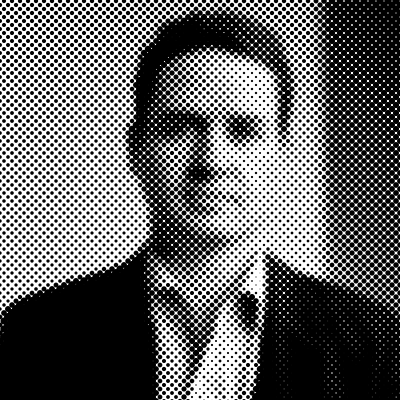
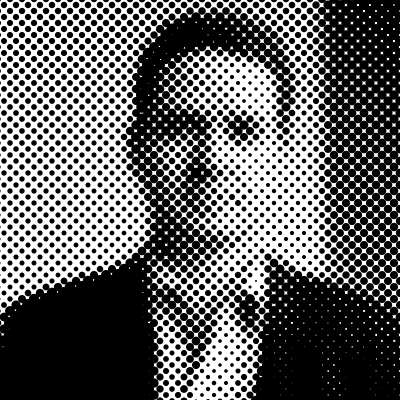
many changes

diff --git a/src/components/indexPage.js b/src/components/indexPage.js
@@ -5,7 +5,6 @@ import { useStaticQuery, graphql } from "gatsby"
 import Img from "gatsby-image"
 
 import Layout from "./layout"
-// import Image from "./image"
 import SEO from "./seo"
 
 import data from "../data"
@@ -503,6 +502,7 @@ const ScheduleSection = ({ t }) => {
           css={css`
             display: flex;
             justify-content: space-around;
+            margin-bottom: 35px;
           `}
         >
           <ScheduleDayTitle
@@ -702,35 +702,52 @@ const ExhibitionItem = ({
   <section
     css={css`
       color: #fff;
-      margin: 60px 0 95px;
-      display: flex;
-      align-items: center;
-      justify-content: space-between;
-      flex-direction: ${imgLeft ? "row" : "row-reverse"};
+      margin: 39px 0 0 0;
+
+      @media (min-width: ${bp}) {
+        margin: 60px 0 95px;
+
+        display: flex;
+        align-items: center;
+        justify-content: space-between;
+        flex-direction: ${imgLeft ? "row" : "row-reverse"};
+      }
     `}
   >
     <div
       css={css`
-        width: calc(50% - 15px);
+        width: 70%;
+        @media (min-width: ${bp}) {
+          width: calc(50% - 15px);
+        }
       `}
     >
       {imgRender()}
     </div>
     <div
       css={css`
-        width: calc(50% - 15px);
-        border: 1px solid #fff;
-        padding: 70px 45px;
+        width: 70%;
+        padding: 14px 0 0 0;
+        line-height: 1.2;
+        @media (min-width: ${bp}) {
+          width: calc(50% - 15px);
+
+          border: 1px solid #fff;
+          padding: 70px 45px;
+        }
       `}
     >
       {author && (
         <p
           css={css`
-            font-size: 24px;
-            line-height: 29px;
             color: #fcfb63;
             font-weight: 500;
             margin-bottom: 9px;
+
+            font-size: 18px;
+            @media (min-width: ${bp}) {
+              font-size: 24px;
+            }
           `}
         >
           {author}
@@ -739,60 +756,75 @@ const ExhibitionItem = ({
 
       <h3
         css={css`
-          font-size: 72px;
-          line-height: 86px;
           font-weight: 700;
           margin-bottom: 9px;
+
+          font-size: 24px;
+          @media (min-width: ${bp}) {
+            font-size: 72px;
+          }
         `}
       >
         {title}
       </h3>
       <p
         css={css`
-          font-size: 24px;
-          line-height: 29px;
           font-weight: 500;
-          margin-bottom: 66px;
+          margin-bottom: 24px;
+
+          font-size: 18px;
+          @media (min-width: ${bp}) {
+            font-size: 24px;
+            margin-bottom: 66px;
+          }
         `}
       >
         {desc}
       </p>
       <p
         css={css`
-          font-size: 24px;
-          line-height: 29px;
           font-weight: 300;
           margin-bottom: 9px;
+
+          font-size: 14px;
+          @media (min-width: ${bp}) {
+            font-size: 24px;
+          }
         `}
       >
         Location
       </p>
       <p
         css={css`
-          font-size: 24px;
-          line-height: 29px;
           font-weight: 600;
           margin-bottom: 55px;
+
+          font-size: 18px;
+          @media (min-width: ${bp}) {
+            font-size: 24px;
+          }
         `}
         dangerouslySetInnerHTML={{ __html: address }}
       />
-      <a
-        href={fbLink}
-        css={css`
-          font-weight: 700;
-          font-size: 24px;
-          line-height: 30px;
-          text-decoration-line: underline;
-          text-transform: uppercase;
+      {fbLink && (
+        <a
+          href={fbLink}
+          css={css`
+            font-weight: 700;
+            font-size: 24px;
+            line-height: 30px;
+            text-decoration-line: underline;
+            text-transform: uppercase;
 
-          color: #fcfb63;
+            color: #fcfb63;
 
-          display: inline-block;
-          margin-bottom: 76px;
-        `}
-      >
-        facebook
-      </a>
+            display: inline-block;
+            margin-bottom: 76px;
+          `}
+        >
+          facebook
+        </a>
+      )}
     </div>
   </section>
 )
@@ -836,6 +868,19 @@ const IndexPage = ({ t }) => {
             base
             childImageSharp {
               fluid(maxWidth: 397) {
+                ...GatsbyImageSharpFluid_withWebp
+              }
+            }
+          }
+        }
+      }
+      partners: allFile(filter: { relativeDirectory: { eq: "partners" } }) {
+        edges {
+          node {
+            relativePath
+            base
+            childImageSharp {
+              fluid(maxWidth: 290) {
                 ...GatsbyImageSharpFluid_withWebp
               }
             }
@@ -1147,7 +1192,8 @@ const IndexPage = ({ t }) => {
         <img src={require("../images/exhibition-bg.jpg")} alt="bg" />
         <div
           css={css`
-            max-width: 1250px;
+            max-width: 1290px;
+            padding: 100px 20px 100px;
             margin: auto;
           `}
         >
@@ -1257,7 +1303,7 @@ const IndexPage = ({ t }) => {
           css={css`
             max-width: 1290px;
             margin: auto;
-            padding: 72px 20px 170px;
+            padding: 72px 20px 85px;
           `}
         >
           <h2
@@ -1267,12 +1313,53 @@ const IndexPage = ({ t }) => {
               line-height: 110%;
               letter-spacing: 1.03em;
               width: 5.5em;
-              padding-bottom: 72px;
             `}
           >
             partners
           </h2>
-          <img src={require("../images/partners.jpg")} />
+        </div>
+
+        <div
+          css={css`
+            padding: 0 20px 175px;
+          `}
+        >
+          <div
+            css={css`
+              display: flex;
+              flex-wrap: wrap;
+              margin: 0 -15px;
+
+              max-width: 1290px;
+              margin: auto;
+
+              @media (min-width: 1610px) {
+                max-width: 1570px;
+              }
+            `}
+          >
+            {data.partners.map((p, i) => {
+              const imgSrc = imagesData.partners.edges.find(
+                ({ node: { base } }) => base === p
+              ).node.childImageSharp.fluid
+
+              return (
+                <Img
+                  key={p}
+                  css={css`
+                    padding: 15px;
+                    width: 33%;
+
+                    @media (min-width: ${bp}) {
+                      width: 20%;
+                    }
+                  `}
+                  fluid={imgSrc}
+                  alt="partner"
+                />
+              )
+            })}
+          </div>
         </div>
       </section>
 

diff --git a/src/data.js b/src/data.js
@@ -37,7 +37,7 @@ export default {
       uk:
         "Регіональний виконавчий креативний директор BBDO Україна та Центральна Азія. Київ",
     },
-    img: "speaker.jpg",
+    img: "zaglushka.png",
   },
 
   speakers: [
@@ -64,7 +64,7 @@ export default {
           "Product Manager and Director, Google VR map. Zürich Area, Switzerland",
         uk: "Product Manager у Google VR Map. Цюрих, Швейцарія.",
       },
-      img: "speaker.jpg",
+      img: "zaglushka.png",
     },
     {
       name: {
@@ -77,7 +77,7 @@ export default {
         uk:
           "Креативний директор та співвласник Bruketa&Žinić&Grey. Загреб, Хорватія",
       },
-      img: "speaker.jpg",
+      img: "zaglushka.png",
     },
     {
       name: {
@@ -101,7 +101,7 @@ export default {
         uk:
           "Креативний дизайнер, ілюстратор. Працював з Google, Uber, Nike, Disney, New York Times та Coca-Cola. Бразилія.",
       },
-      img: "speaker.jpg",
+      img: "zaglushka.png",
     },
     {
       name: {
@@ -124,7 +124,7 @@ export default {
     //     en: "Partner at Pentagram, New York",
     //     uk: "Партнер у Pentagram, New York.",
     //   },
-    //   img: "speaker.jpg",
+    //   img: "zaglushka.png",
     // },
     {
       name: {
@@ -135,7 +135,7 @@ export default {
         en: "Design Director, MediaMonks. Amsterdam, Netherlands",
         uk: "Design Director MediaMonks. Амстердам, Нідерланди",
       },
-      img: "speaker.jpg",
+      img: "zaglushka.png",
     },
     {
       name: {
@@ -146,7 +146,7 @@ export default {
         en: "Managing Partner at Aimbulance. Kyiv, Ukraine",
         uk: "Співзасновник та керуючий партнер Aimbulance. Київ",
       },
-      img: "speaker.jpg",
+      img: "zaglushka.png",
     },
   ],
   workshops: [],
@@ -528,5 +528,21 @@ export default {
   ],
   merch: {},
   venue: {},
-  partners: {},
+  partners: [
+    "Frame 3.1.png",
+    "Frame 3.10.png",
+    "Frame 3.11.png",
+    "Frame 3.12.png",
+    "Frame 3.13.png",
+    "Frame 3.14.png",
+    "Frame 3.2.png",
+    "Frame 3.3.png",
+    "Frame 3.4.png",
+    "Frame 3.5.png",
+    "Frame 3.6.png",
+    "Frame 3.7.png",
+    "Frame 3.8.png",
+    "Frame 3.9.png",
+    "Frame 3.png",
+  ],
 }

diff --git a/README.md b/README.md
@@ -5,6 +5,7 @@ todo:
 
 ## Resources:
 - https://www.figma.com/file/uEntt79qCiF9kNUBCLhmlA/design-village?node-id=14%3A2
+- https://drive.google.com/drive/folders/15X2xYaRaGF3sHTa4U7R1LJHp0lLseNqn?usp=sharing
 - https://css-tricks.com/snippets/css/a-guide-to-flexbox/
 - https://www.gatsbyjs.org/packages/gatsby-image/?= and bg
 - https://evanw.github.io/glfx.js/demo/#dotScreen
